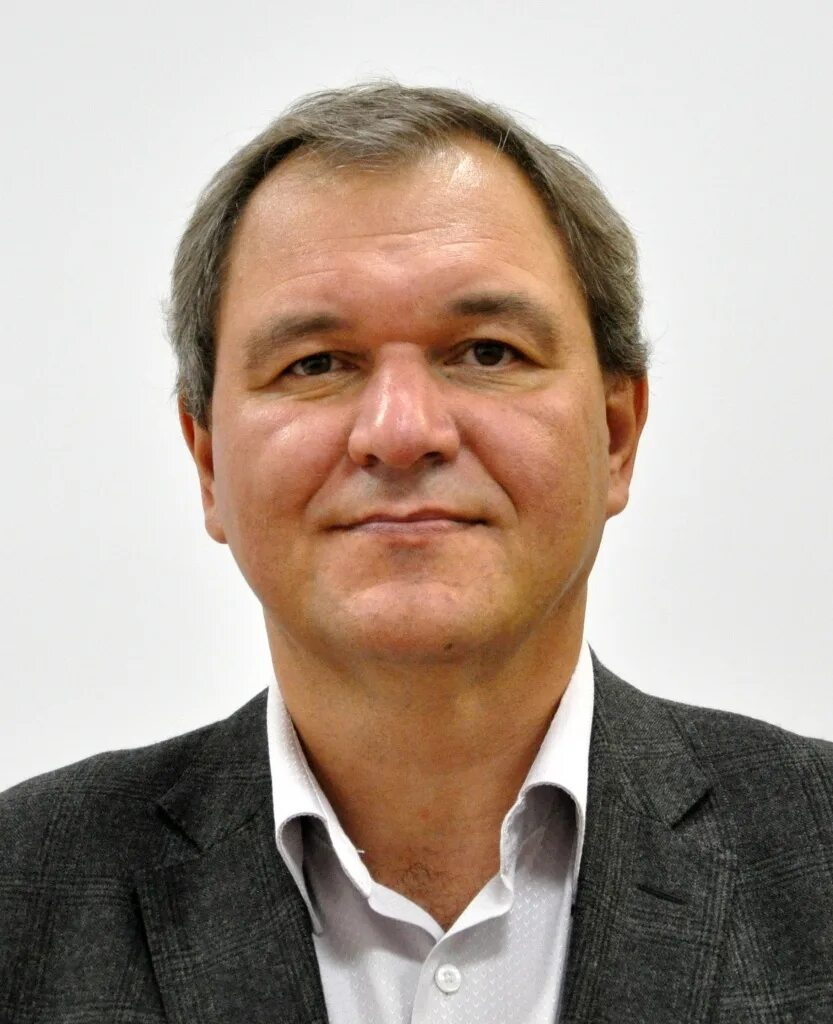
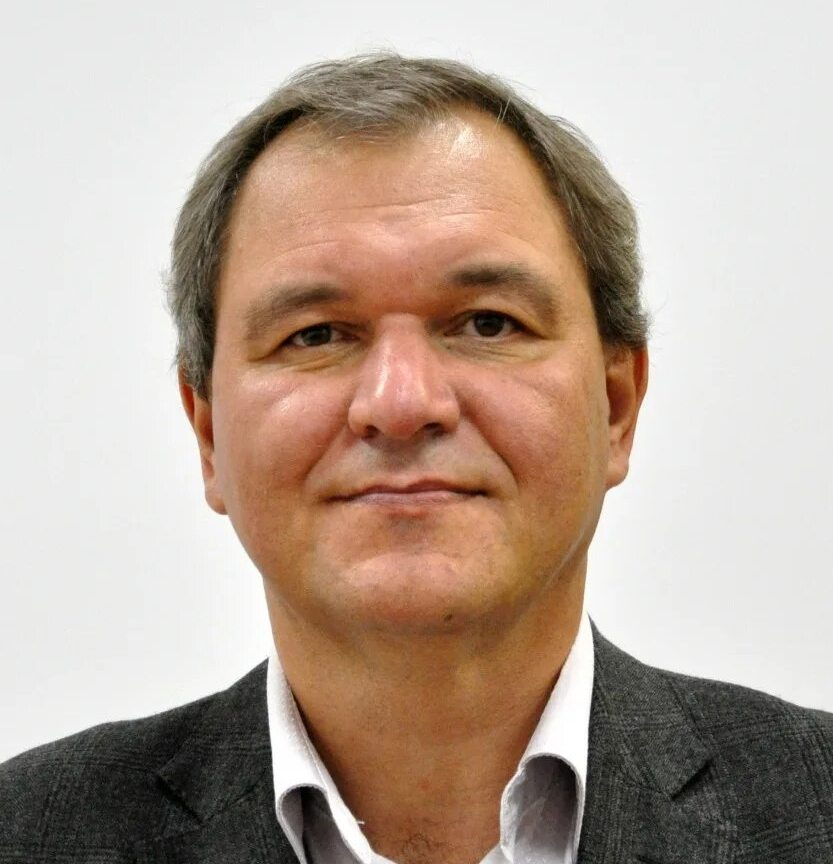
Добавить Фоминцева С.А. в попечительский совет и обновить фото карточек
- Добавлена карточка Фоминцева Сергея Анатольевича в попечительский совет
- Обновлены фотографии членов попечительского совета
- Добавлен параметр версии к URL фото для обновления кэша браузера

🤖 Generated with [Claude Code](https://claude.com/claude-code)

diff --git a/index.html b/index.html
@@ -2328,8 +2328,8 @@
                             <!-- Board Member 1: Шалманова Ирина Александровна -->
                             <div style="background: #f8f9fa; border: 1px solid #e5e5e5; border-radius: 8px; padding: 16px; display: flex; gap: 16px; align-items: flex-start;" class="board-card">
                                 <div style="flex-shrink: 0;">
-                                    <img src="Шалманова.jpeg" 
-                                         alt="Шалманова Ирина Александровна" 
+                                    <img src="Шалманова.jpeg?v=2"
+                                         alt="Шалманова Ирина Александровна"
                                          style="width: 80px; height: 80px; object-fit: cover; border-radius: 50%; box-shadow: 0 2px 8px rgba(0,0,0,0.1);">
                                 </div>
                                 
@@ -2372,11 +2372,11 @@
                             <!-- Board Member 3: Елхина Наталья Евгеньевна -->
                             <div style="background: #f8f9fa; border: 1px solid #e5e5e5; border-radius: 8px; padding: 16px; display: flex; gap: 16px; align-items: flex-start;" class="board-card">
                                 <div style="flex-shrink: 0;">
-                                    <img src="Елхина.jpeg" 
-                                         alt="Елхина Наталья Евгеньевна" 
+                                    <img src="Елхина.jpeg?v=2"
+                                         alt="Елхина Наталья Евгеньевна"
                                          style="width: 80px; height: 80px; object-fit: cover; border-radius: 50%; box-shadow: 0 2px 8px rgba(0,0,0,0.1);">
                                 </div>
-                                
+
                                 <div style="flex: 1;">
                                     <h4 style="font-size: 22px; font-weight: 700; color: #1a1a1a; margin-bottom: 4px;" id="board-member-3-name">
                                         Елхина Наталья Евгеньевна
@@ -2384,9 +2384,31 @@
                                     <p style="font-size: 17px; color: #007bff; font-weight: 600; margin-bottom: 6px;" id="board-member-3-position">
                                         Попечитель
                                     </p>
-                                    
+
                                     <p style="font-size: 16px; color: #666; line-height: 1.4; margin: 0;">
                                         Руководитель отдела по работе с корпоративными клиентами. Президент Благотворительного фонда «Вера и поддержка», Вице-президент Международной Ассоциации развитие трансформации предприятий предпринимателей Евразии [МА ППБЕ]. Эксперт в области финансов с 15-летним опытом.
+                                    </p>
+                                </div>
+                            </div>
+
+                            <!-- Board Member 4: Фоминцев Сергей Анатольевич -->
+                            <div style="background: #f8f9fa; border: 1px solid #e5e5e5; border-radius: 8px; padding: 16px; display: flex; gap: 16px; align-items: flex-start;" class="board-card">
+                                <div style="flex-shrink: 0;">
+                                    <img src="Фоминцев.jpeg?v=2"
+                                         alt="Фоминцев Сергей Анатольевич"
+                                         style="width: 80px; height: 80px; object-fit: cover; border-radius: 50%; box-shadow: 0 2px 8px rgba(0,0,0,0.1);">
+                                </div>
+
+                                <div style="flex: 1;">
+                                    <h4 style="font-size: 22px; font-weight: 700; color: #1a1a1a; margin-bottom: 4px;" id="board-member-4-name">
+                                        Фоминцев Сергей Анатольевич
+                                    </h4>
+                                    <p style="font-size: 17px; color: #007bff; font-weight: 600; margin-bottom: 6px;" id="board-member-4-position">
+                                        Попечитель
+                                    </p>
+
+                                    <p style="font-size: 16px; color: #666; line-height: 1.4; margin: 0;">
+                                        Куратор национальной премии детского патриотического творчества. Председатель общественного совета дети BRICS. Руководитель проекта электронные книги.
                                     </p>
                                 </div>
                             </div>
